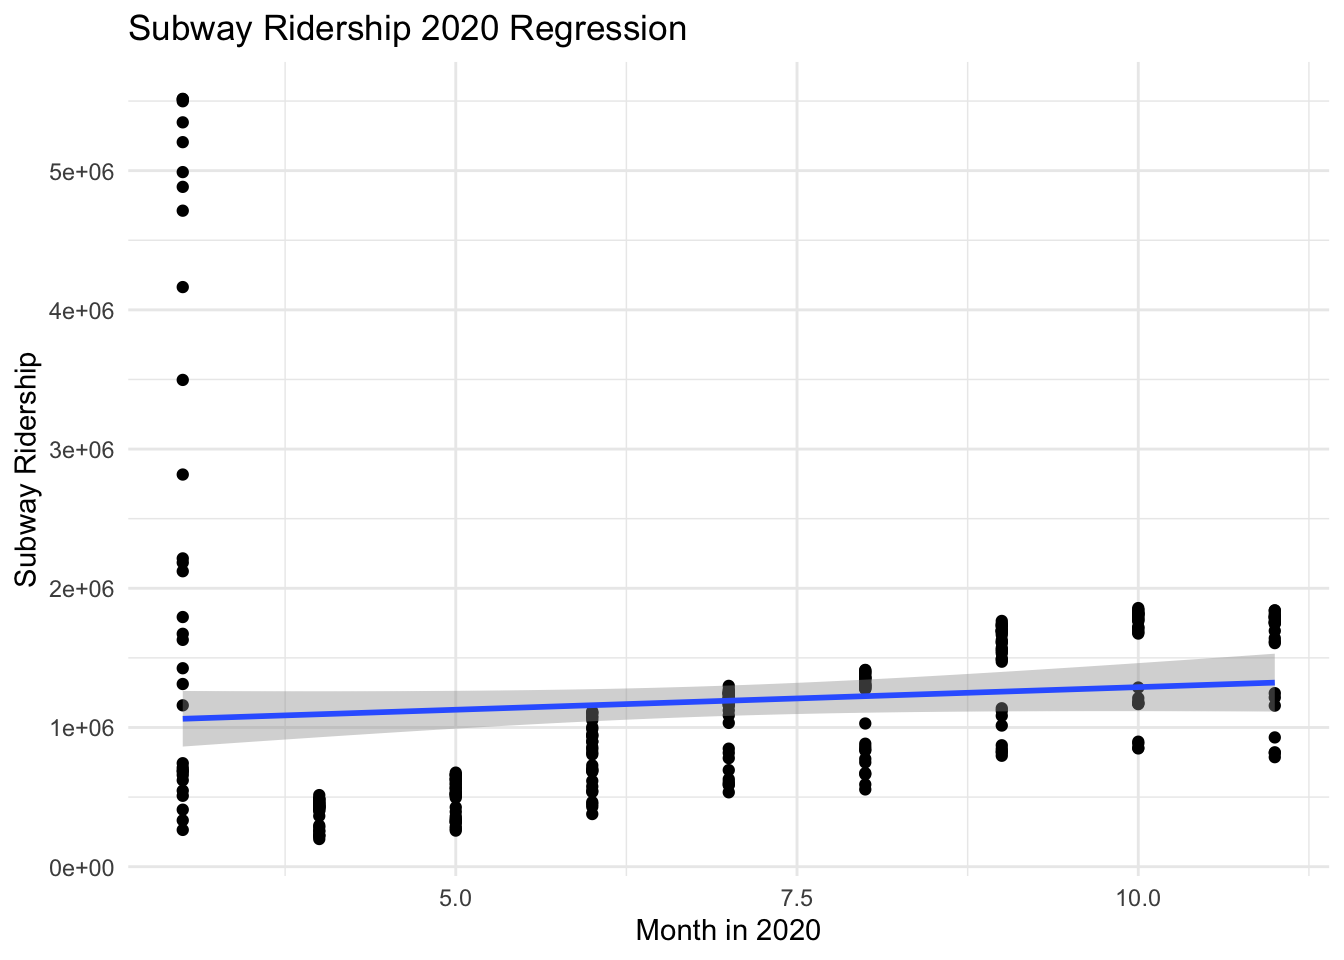
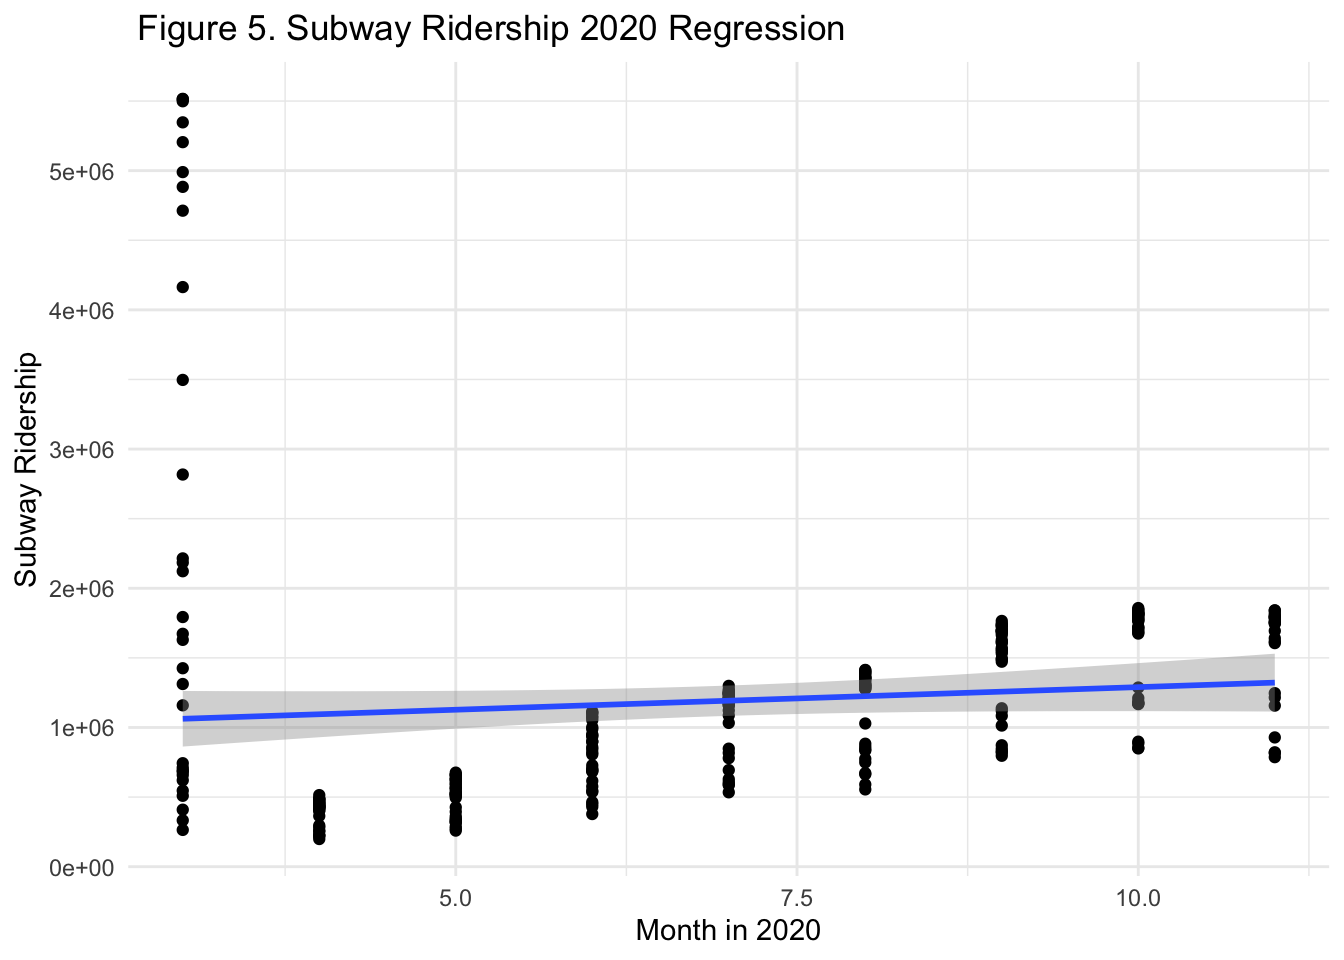
Regression results

Changed region(s): [[0.0938, 0.0, 0.625, 0.0625]]

diff --git a/Analysis2.html b/Analysis2.html
@@ -458,7 +458,7 @@ subway_ridership %&gt;%
   stat_smooth(method = lm)+
    xlab(&quot;Month in 2020&quot;) +
   ylab(&quot;Subway Ridership&quot;) +
-  ggtitle(&quot;Subway Ridership 2020 Regression&quot;)</code></pre>
+  ggtitle(&quot; Figure 5. Subway Ridership 2020 Regression&quot;)</code></pre>
 <p><img src="Analysis2_files/figure-html/unnamed-chunk-2-1.png" width="672" /></p>
 <p>Now we will build a plot of model residuals against fitted values for subway ridership in 2020.</p>
 <pre class="r"><code>mta_data %&gt;% 
@@ -467,7 +467,7 @@ subway_ridership %&gt;%
   ggplot(aes(x = pred, y = resid)) + geom_point() + 
   labs(x = &quot;Predicted value&quot;, 
        y = &quot;Residual&quot;) +
-    ggtitle(&quot;Residual vs. Predicted value of Subway 2020 Ridership Regression Model&quot;)</code></pre>
+    ggtitle(&quot;Figure 6. Residual vs. Predicted value of Subway 2020 Ridership Regression Model&quot;)</code></pre>
 <p><img src="Analysis2_files/figure-html/unnamed-chunk-3-1.png" width="672" /></p>
 <p>Now, we need to propose a regression model for bus ridership in 2020.</p>
 <p>As the outcome (bus ridership) is continuous, we can fit a linear regression model.</p>
@@ -511,7 +511,7 @@ ggplot(mta_data, aes(month, bus_2020)) +
   stat_smooth(method = lm)+
    xlab(&quot;Month in 2020&quot;) +
   ylab(&quot;Bus Ridership&quot;) +
-  ggtitle(&quot;Bus Ridership 2020 Regression&quot;)</code></pre>
+  ggtitle(&quot; Figure 7. Bus Ridership 2020 Regression&quot;)</code></pre>
 <p><img src="Analysis2_files/figure-html/unnamed-chunk-4-1.png" width="672" /></p>
 <ul>
 <li>Next, we will build a plot of model residuals against fitted values for bus ridership in 2020.</li>
@@ -529,6 +529,19 @@ ggplot(mta_data, aes(month, bus_2020)) +
 ## 
 ## attr(,&quot;class&quot;)
 ## [1] &quot;labels&quot;</code></pre>
+<div id="results" class="section level3">
+<h3>Results</h3>
+<ul>
+<li><strong>Subway</strong>
+<ul>
+<li>For each additional change in month, we expect subway ridership to increase by 32,473 units, on average.</li>
+</ul></li>
+<li><strong>Bus</strong>
+<ul>
+<li>For each additional change in month, we expect bus ridership to increase by 26,325 units, on average.</li>
+</ul></li>
+</ul>
+</div>
 </div>
 
 
